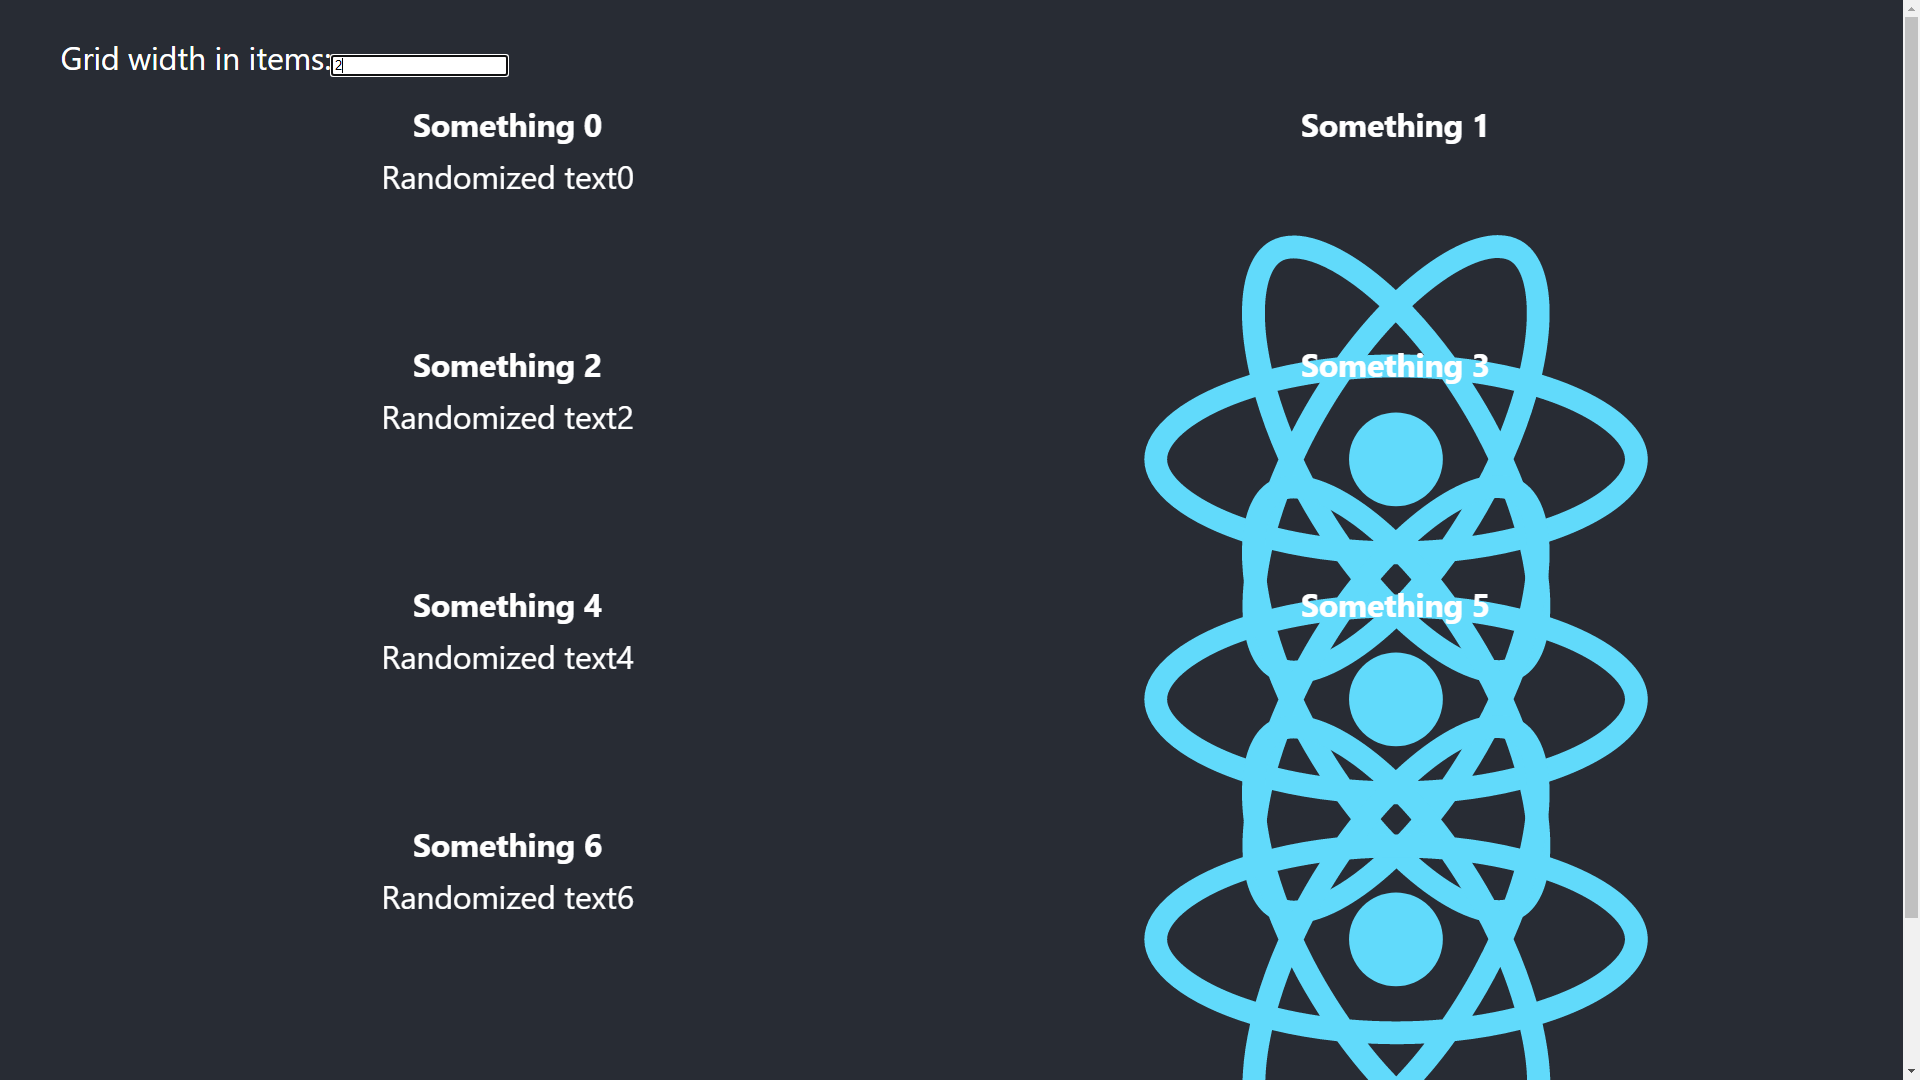
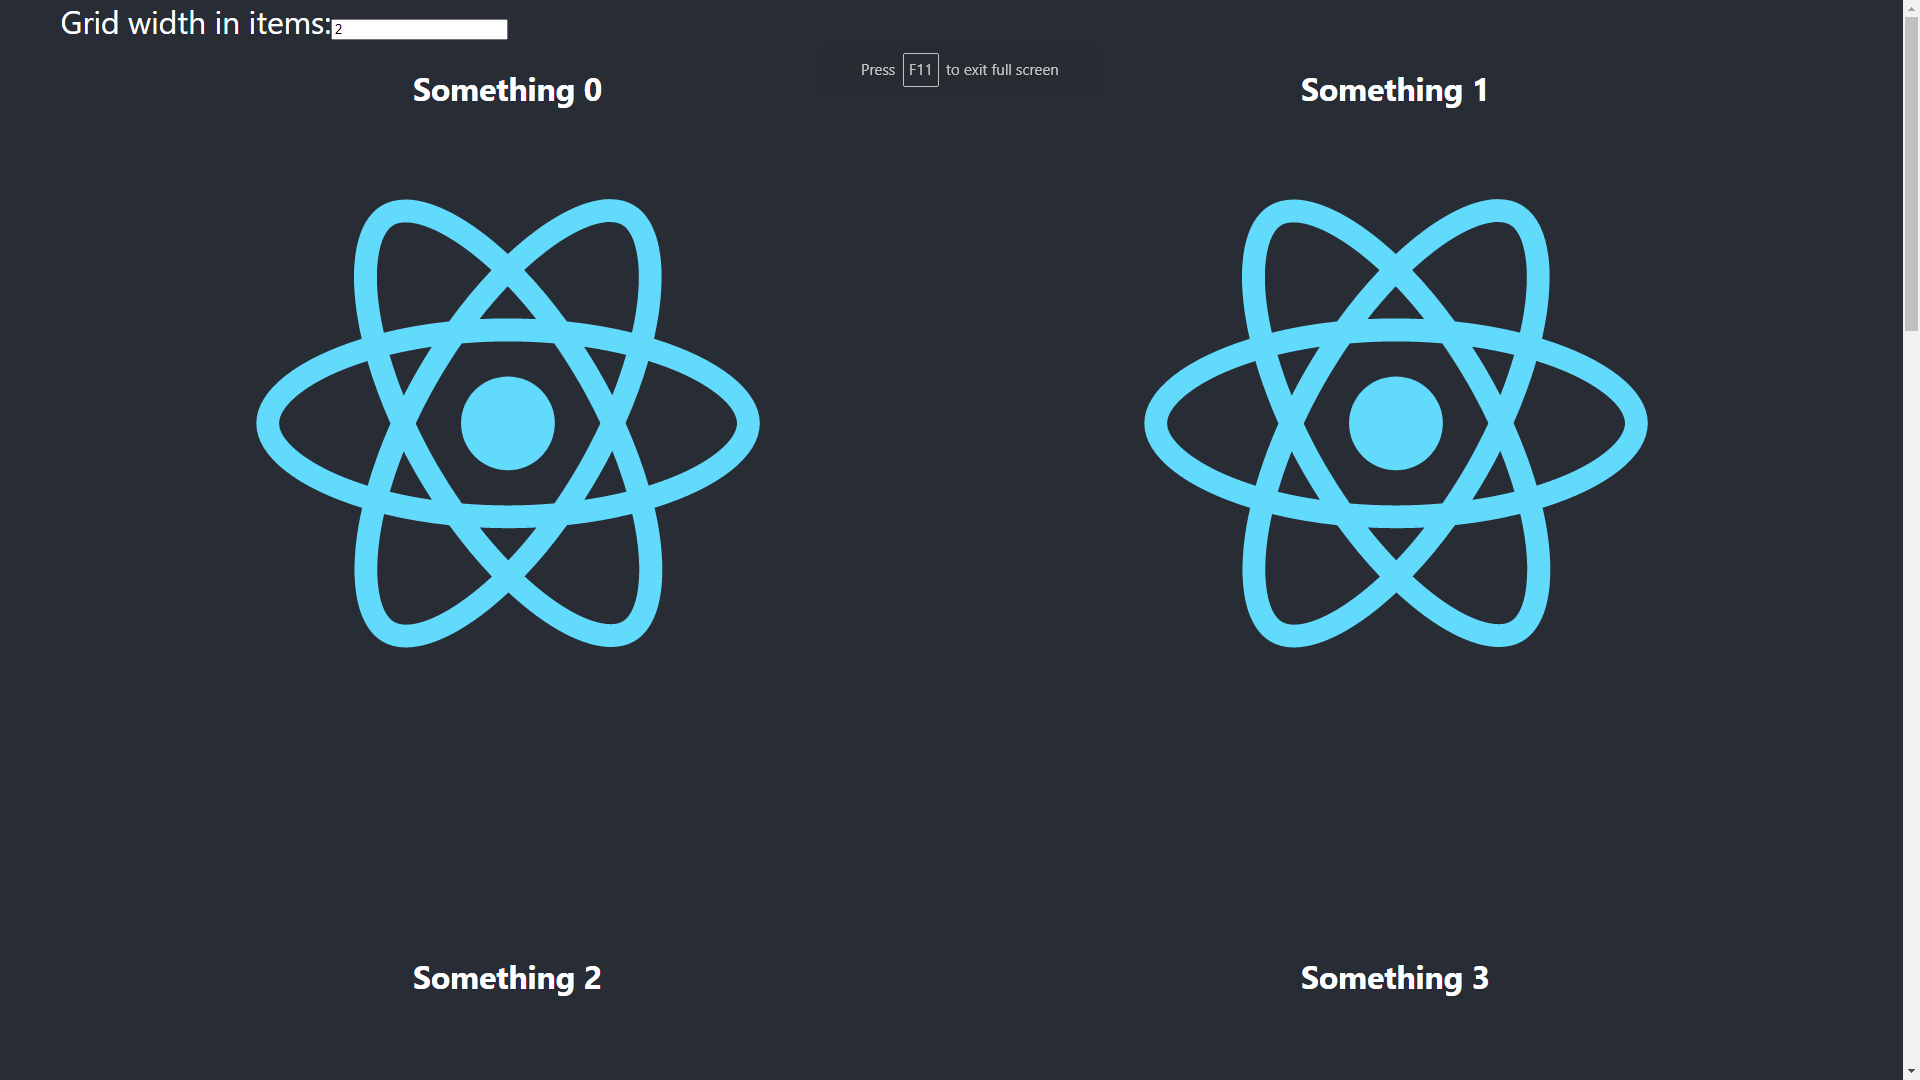
fix(grid): preserving aspect ratio

diff --git a/showcase-ideas/src/components/Grid.js b/showcase-ideas/src/components/Grid.js
@@ -23,6 +23,9 @@ import useWindowDimensions from '../hooks/useWindowDimensions';
 // help: [ https://www.robinwieruch.de/javascript-map-array/ ]
 const processCards = (cards, cols, height, width) => {
 
+    let cardSizeReducer = 0.9
+    let aspectRatio = 3/2
+
     let render = []
     let rows = (cards.length / cols) + 1
     console.log("rows: " + rows)
@@ -30,7 +33,11 @@ const processCards = (cards, cols, height, width) => {
         let row = []
         for(let col=0; col<cols; col++) {
             if(i<cards.length) {
-                row.push(<td><Card key={i} {...cards[i]} height={height/rows} maxHeight={0.9 * height/rows} width={width/cols} maxWidth={0.9* width/cols}/></td>)
+                // row.push(<td><Card key={i} {...cards[i]} height={height/rows} maxHeight={0.9 * height/rows} width={width/cols} maxWidth={0.9* width/cols}/></td>)
+                // todo: ideally get some calculation of the image, create cards that have a 2 * 3 aspect ratio
+                let h = aspectRatio * width/cols //height/rows > width/cols ? height/rows : width/cols
+                let mh = aspectRatio * cardSizeReducer * width/cols //height/rows > width/cols ? cardSizeReducer * height/rows : cardSizeReducer * width/cols
+                row.push(<td><Card key={i} {...cards[i]} height={h} maxHeight={mh} width={width/cols} maxWidth={cardSizeReducer * width/cols}/></td>)
                 i++;
             }
             else {

diff --git a/README.MD b/README.MD
@@ -15,9 +15,7 @@ And there needs to be a simple search bar, and have tags attached to each idea. 
 * including subfolders as cards - ideally avoid heavy database with metadata and references, simply use a subfolder structure for ideas
 
 # Progress
-![image](screenshots/example-grid-2.png) 
-- todo: will have to fix displaying height
-
+![image](screenshots/example-grid-2.png)
 ![image](screenshots/example-grid-5.png)
 ![image](screenshots/example-grid-7.png)
 
